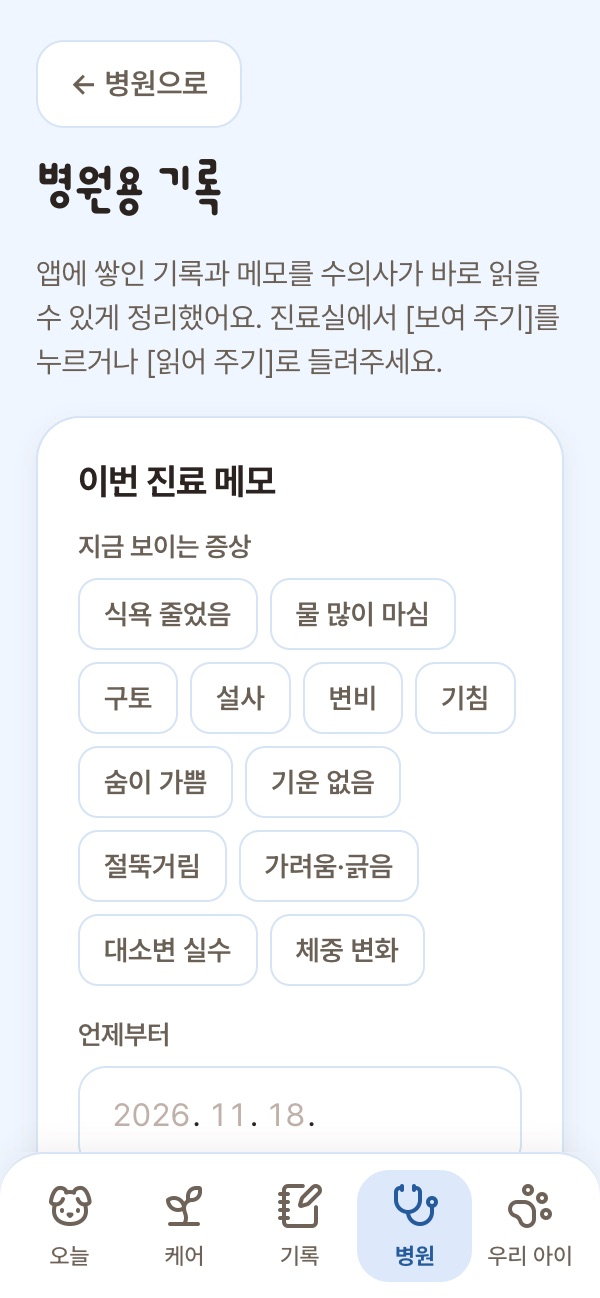
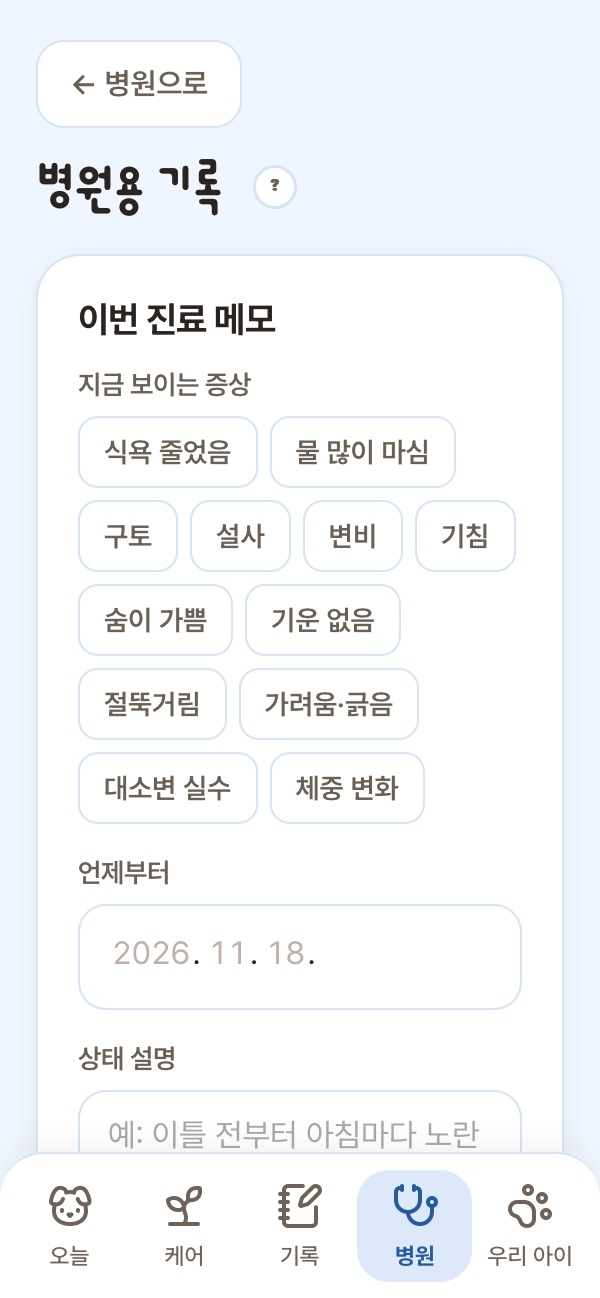
병원 탭 카드 납작하게(설명 제거, 보여 주기 오른쪽), 병원용 기록 화면 설명은 ? 버튼으로, 홈페이지 스크린샷 v11

diff --git a/public/intro/guide/index.html b/public/intro/guide/index.html
@@ -96,7 +96,7 @@
           </div>
           <figure class="g-sec-shot"><img src="/intro/img/profile.jpg?v=9" alt="우리 아이 화면 예시" width="300" height="649" loading="lazy" /><figcaption>예시 화면</figcaption></figure>
         </header>
-        <article class="g-q" id="pf-card"><h3>맨 위 카드에는 뭐가 있어요?</h3><p>나이·견종·몸무게·중성화와 <b>먹는 약·알레르기</b>가 보여요. '정보 전체 보기'로 생일·입양일·다니는 병원 같은 정보를 펼쳐요.</p><p>우리 아이 탭 맨 위 <b>대표 사진</b>의 📷를 눌러 바꿔요. 아래 <b>성장 추억</b>에 사진을 여러 장 모을 수 있고, 사진을 누르면 그날의 문구를 적고 스티커·글자로 꾸미거나 대표 사진으로 바꿀 수 있어요. 병원·증상 사진은 성장 추억 대신 그 기록에 남아요.</p><p><b>프로필 편집</b>에서 정보를 고치고, 사진을 지울 수 있어요. 사진은 위 사진을 눌러 바꿔요.</p></article><article class="g-q" id="pf-vitals"><h3>건강 수치 칸은 어떻게 읽어요?</h3><p>처음엔 몸무게만 보여요. 호흡수·체온·음수량처럼 따로 재는 수치는 [편집]에서 켜요. 밥 먹은 양은 기록 탭의 식사에서 건식·습식과 g으로 한 번에 적어요. 칸을 누르면 그래프와 재는 방법이 나와요.</p><dl class="g-table"><div><dt>큰 숫자 + '오늘'</dt><dd>오늘 적은 값</dd></div><div><dt>'—' + '마지막 어제'</dt><dd>오늘은 아직 안 적었어요</dd></div><div><dt>흐린 숫자</dt><dd>오래된 값이에요 (7일, 몸무게는 30일 지남)</dd></div><div><dt>'참고 범위 밖'</dt><dd>일반적인 범위와 달라요. 계속되면 병원에 물어보세요</dd></div></dl><p class="g-tip"><svg class="sk" aria-hidden="true"><use href="/sk/stickers.svg?v=3#sk-idea"/></svg><span><b>알아 두면 좋아요</b> '편집'을 누르면 늘 보일 칸을 고를 수 있어요.</span></p></article><article class="g-q" id="pf-records"><h3>건강 기록은 뭘 적어요?</h3><p><b>기록 탭 → [＋ 새 기록]</b>을 누르거나, 달력에서 날짜를 고른 뒤 <b>[＋ 이날 더 적기]</b>를 눌러요. 새 기록을 누르면 <b>체중 · 밥·물 · 배변·배뇨 · 증상 · 건강 수치 · 복약 · 병원 진료 · 성장 추억 · 일상·컨디션</b> 아홉 가지 중에 골라요. 사진과 메모는 어디에나 붙일 수 있어요.</p><dl class="g-table"><div><dt>체중</dt><dd>몸무게(kg)와 잰 방법</dd></div><div><dt>밥·물</dt><dd>건식·습식·물을 양(g·ml)으로, 식욕과 물 마신 정도</dd></div><div><dt>배변·배뇨</dt><dd>대변(모양·색·보이는 것)과 소변 상태</dd></div><div><dt>증상</dt><dd>구토·설사·기침·절뚝거림 같은 종류와 횟수, 본 모습</dd></div><div><dt>건강 수치</dt><dd>호흡수·체온·음수량처럼 따로 재는 값</dd></div><div><dt>복약</dt><dd>먹인 약과 시각</dd></div><div><dt>병원 진료</dt><dd>병원·이유·설명·검사·처방. 진료비를 적으면 가계부에, 다음 진료일을 적으면 일정표에도 들어가요</dd></div><div><dt>성장 추억</dt><dd>사진을 모아 두고 그날의 문구를 적어요</dd></div><div><dt>일상·컨디션</dt><dd>산책·간식·미용·양치·놀이 / 활동량·수면·피부·구강</dd></div></dl></article><article class="g-q" id="pf-vet"><h3>병원용 기록은 뭐예요?</h3><figure class="g-shot"><img src="/intro/img/vet.jpg?v=10" alt="병원용 기록 화면 예시" width="300" height="649" loading="lazy" /><figcaption>병원용 기록 화면 예시</figcaption></figure><p>병원에서 <b>“언제부터 그랬어요?”</b>에 바로 답할 수 있게 기록을 한 장으로 정리해 줘요.</p><ol class="g-steps"><li>'이번 진료 메모'에 지금 보이는 증상, 언제부터, 여쭤볼 것을 적어요.</li><li>넣을 기록과 기간(7·30·90일)을 골라요.</li><li>진료실에서 <b>보여 주기</b>(크게), <b>읽어 주기</b>, <b>공유</b>, <b>PDF로 저장</b> 중에 써요.</li></ol></article><article class="g-q" id="pf-meds"><h3>약은 어떻게 챙겨요?</h3><ol class="g-steps"><li>'투약' 칸이나 '투약 기록'을 눌러 <b>약 관리</b>로 가요.</li><li>약 이름·1회 양·먹일 시간·요일·기간을 처방대로 넣어요.</li><li>시간이 되면 알림이 오고, <b>먹였어요</b>나 <b>건너뜀</b>을 눌러요.</li></ol><p>기록을 안 누른 약은 '확인 필요'로 보여요. 남은 양도 알려 줘요.</p></article><article class="g-q" id="pf-report"><h3>주간 리포트는 뭐예요?</h3><p>지난 7일 동안 적은 기록을 <b>숫자로 모아</b> 보여 줘요. 건강 기록 카드 아래 <b>'이번 주 리포트'</b>를 누르거나, <b>일요일 저녁 8시</b> 알림을 누르면 열려요.</p><dl class="g-table"><div><dt>산책</dt><dd>며칠, 모두 몇 분</dd></div><div><dt>밥</dt><dd>평소만큼 / 적게 먹은 횟수</dd></div><div><dt>무른 변·설사</dt><dd>있었던 날짜</dd></div><div><dt>증상 기록</dt><dd>날짜별 목록</dd></div><div><dt>체중</dt><dd>지난 기록과의 차이</dd></div><div><dt>혼자 있던 시간</dt><dd>[다녀올게]를 누른 날의 하루 평균</dd></div><div><dt>다음 7일</dt><dd>일정과 사료 남은 날</dd></div></dl><p class="g-note"><svg class="sk" aria-hidden="true"><use href="/sk/stickers.svg?v=3#sk-alert"/></svg><span>적어 둔 기록을 그대로 센 숫자예요. 몸 상태를 판단하거나 점수를 매기지 않아요.</span></p><p>리포트 아래 <b>[이번 주 카드로 자랑하기]</b>를 누르면 함께 본 날·산책·몸무게·기록 수를 예쁜 그림 한 장으로 만들어 인스타·카톡에 올릴 수 있어요. 건강 기록은 그림에 넣지 않아요.</p></article><article class="g-q" id="pf-settings"><h3>설정에는 뭐가 있어요?</h3><p>우리 아이 탭 오른쪽 위 <b>메뉴(☰)</b>를 누르세요. 묶음별로 정리돼 있어요.</p><dl class="g-table"><div><dt>계정</dt><dd><b>백업·로그인</b>(카카오·이메일, 계정 삭제) · <b>가족 공유</b>(초대 코드를 보내면 가족이 같은 기록을 봐요)</dd></div><div><dt>우리 강아지</dt><dd>강아지 목록(누르면 바뀌어요) · <b>가족(본가) 집에 있어요</b> 스위치 · 새 강아지 등록하기</dd></div><div><dt>화면</dt><dd>다크 모드 · 배경 테마(색 조합과 발바닥 무늬) · 퍼피 100일 카드 켜고 끄기</dd></div><div><dt>기록</dt><dd><b>기록 내보내기</b>(병원용 기록 PDF, 엑셀용 CSV, 전체 백업 JSON — 무료) · AI 정보 전송 동의 확인·철회</dd></div><div><dt>멍케어</dt><dd><b>의견 보내기</b>(베타 기간엔 여기로 불편한 점을 알려 주세요) · 도움말 · 문의하기 · 가이드북·홈페이지·블로그·인스타·스레드 링크</dd></div><div><dt>삭제</dt><dd>이 강아지 삭제 · 전체 삭제</dd></div></dl></article>
+        <article class="g-q" id="pf-card"><h3>맨 위 카드에는 뭐가 있어요?</h3><p>나이·견종·몸무게·중성화와 <b>먹는 약·알레르기</b>가 보여요. '정보 전체 보기'로 생일·입양일·다니는 병원 같은 정보를 펼쳐요.</p><p>우리 아이 탭 맨 위 <b>대표 사진</b>의 📷를 눌러 바꿔요. 아래 <b>성장 추억</b>에 사진을 여러 장 모을 수 있고, 사진을 누르면 그날의 문구를 적고 스티커·글자로 꾸미거나 대표 사진으로 바꿀 수 있어요. 병원·증상 사진은 성장 추억 대신 그 기록에 남아요.</p><p><b>프로필 편집</b>에서 정보를 고치고, 사진을 지울 수 있어요. 사진은 위 사진을 눌러 바꿔요.</p></article><article class="g-q" id="pf-vitals"><h3>건강 수치 칸은 어떻게 읽어요?</h3><p>처음엔 몸무게만 보여요. 호흡수·체온·음수량처럼 따로 재는 수치는 [편집]에서 켜요. 밥 먹은 양은 기록 탭의 식사에서 건식·습식과 g으로 한 번에 적어요. 칸을 누르면 그래프와 재는 방법이 나와요.</p><dl class="g-table"><div><dt>큰 숫자 + '오늘'</dt><dd>오늘 적은 값</dd></div><div><dt>'—' + '마지막 어제'</dt><dd>오늘은 아직 안 적었어요</dd></div><div><dt>흐린 숫자</dt><dd>오래된 값이에요 (7일, 몸무게는 30일 지남)</dd></div><div><dt>'참고 범위 밖'</dt><dd>일반적인 범위와 달라요. 계속되면 병원에 물어보세요</dd></div></dl><p class="g-tip"><svg class="sk" aria-hidden="true"><use href="/sk/stickers.svg?v=3#sk-idea"/></svg><span><b>알아 두면 좋아요</b> '편집'을 누르면 늘 보일 칸을 고를 수 있어요.</span></p></article><article class="g-q" id="pf-records"><h3>건강 기록은 뭘 적어요?</h3><p><b>기록 탭 → [＋ 새 기록]</b>을 누르거나, 달력에서 날짜를 고른 뒤 <b>[＋ 이날 더 적기]</b>를 눌러요. 새 기록을 누르면 <b>체중 · 밥·물 · 배변·배뇨 · 증상 · 건강 수치 · 복약 · 병원 진료 · 성장 추억 · 일상·컨디션</b> 아홉 가지 중에 골라요. 사진과 메모는 어디에나 붙일 수 있어요.</p><dl class="g-table"><div><dt>체중</dt><dd>몸무게(kg)와 잰 방법</dd></div><div><dt>밥·물</dt><dd>건식·습식·물을 양(g·ml)으로, 식욕과 물 마신 정도</dd></div><div><dt>배변·배뇨</dt><dd>대변(모양·색·보이는 것)과 소변 상태</dd></div><div><dt>증상</dt><dd>구토·설사·기침·절뚝거림 같은 종류와 횟수, 본 모습</dd></div><div><dt>건강 수치</dt><dd>호흡수·체온·음수량처럼 따로 재는 값</dd></div><div><dt>복약</dt><dd>먹인 약과 시각</dd></div><div><dt>병원 진료</dt><dd>병원·이유·설명·검사·처방. 진료비를 적으면 가계부에, 다음 진료일을 적으면 일정표에도 들어가요</dd></div><div><dt>성장 추억</dt><dd>사진을 모아 두고 그날의 문구를 적어요</dd></div><div><dt>일상·컨디션</dt><dd>산책·간식·미용·양치·놀이 / 활동량·수면·피부·구강</dd></div></dl></article><article class="g-q" id="pf-vet"><h3>병원용 기록은 뭐예요?</h3><figure class="g-shot"><img src="/intro/img/vet.jpg?v=11" alt="병원용 기록 화면 예시" width="300" height="649" loading="lazy" /><figcaption>병원용 기록 화면 예시</figcaption></figure><p>병원에서 <b>“언제부터 그랬어요?”</b>에 바로 답할 수 있게 기록을 한 장으로 정리해 줘요.</p><ol class="g-steps"><li>'이번 진료 메모'에 지금 보이는 증상, 언제부터, 여쭤볼 것을 적어요.</li><li>넣을 기록과 기간(7·30·90일)을 골라요.</li><li>진료실에서 <b>보여 주기</b>(크게), <b>읽어 주기</b>, <b>공유</b>, <b>PDF로 저장</b> 중에 써요.</li></ol></article><article class="g-q" id="pf-meds"><h3>약은 어떻게 챙겨요?</h3><ol class="g-steps"><li>'투약' 칸이나 '투약 기록'을 눌러 <b>약 관리</b>로 가요.</li><li>약 이름·1회 양·먹일 시간·요일·기간을 처방대로 넣어요.</li><li>시간이 되면 알림이 오고, <b>먹였어요</b>나 <b>건너뜀</b>을 눌러요.</li></ol><p>기록을 안 누른 약은 '확인 필요'로 보여요. 남은 양도 알려 줘요.</p></article><article class="g-q" id="pf-report"><h3>주간 리포트는 뭐예요?</h3><p>지난 7일 동안 적은 기록을 <b>숫자로 모아</b> 보여 줘요. 건강 기록 카드 아래 <b>'이번 주 리포트'</b>를 누르거나, <b>일요일 저녁 8시</b> 알림을 누르면 열려요.</p><dl class="g-table"><div><dt>산책</dt><dd>며칠, 모두 몇 분</dd></div><div><dt>밥</dt><dd>평소만큼 / 적게 먹은 횟수</dd></div><div><dt>무른 변·설사</dt><dd>있었던 날짜</dd></div><div><dt>증상 기록</dt><dd>날짜별 목록</dd></div><div><dt>체중</dt><dd>지난 기록과의 차이</dd></div><div><dt>혼자 있던 시간</dt><dd>[다녀올게]를 누른 날의 하루 평균</dd></div><div><dt>다음 7일</dt><dd>일정과 사료 남은 날</dd></div></dl><p class="g-note"><svg class="sk" aria-hidden="true"><use href="/sk/stickers.svg?v=3#sk-alert"/></svg><span>적어 둔 기록을 그대로 센 숫자예요. 몸 상태를 판단하거나 점수를 매기지 않아요.</span></p><p>리포트 아래 <b>[이번 주 카드로 자랑하기]</b>를 누르면 함께 본 날·산책·몸무게·기록 수를 예쁜 그림 한 장으로 만들어 인스타·카톡에 올릴 수 있어요. 건강 기록은 그림에 넣지 않아요.</p></article><article class="g-q" id="pf-settings"><h3>설정에는 뭐가 있어요?</h3><p>우리 아이 탭 오른쪽 위 <b>메뉴(☰)</b>를 누르세요. 묶음별로 정리돼 있어요.</p><dl class="g-table"><div><dt>계정</dt><dd><b>백업·로그인</b>(카카오·이메일, 계정 삭제) · <b>가족 공유</b>(초대 코드를 보내면 가족이 같은 기록을 봐요)</dd></div><div><dt>우리 강아지</dt><dd>강아지 목록(누르면 바뀌어요) · <b>가족(본가) 집에 있어요</b> 스위치 · 새 강아지 등록하기</dd></div><div><dt>화면</dt><dd>다크 모드 · 배경 테마(색 조합과 발바닥 무늬) · 퍼피 100일 카드 켜고 끄기</dd></div><div><dt>기록</dt><dd><b>기록 내보내기</b>(병원용 기록 PDF, 엑셀용 CSV, 전체 백업 JSON — 무료) · AI 정보 전송 동의 확인·철회</dd></div><div><dt>멍케어</dt><dd><b>의견 보내기</b>(베타 기간엔 여기로 불편한 점을 알려 주세요) · 도움말 · 문의하기 · 가이드북·홈페이지·블로그·인스타·스레드 링크</dd></div><div><dt>삭제</dt><dd>이 강아지 삭제 · 전체 삭제</dd></div></dl></article>
         <a class="g-next" href="#calendar"><span>다음</span><b>병원 · 일정표</b><svg class="ic" aria-hidden="true"><use href="/intro/sprite.svg#i-chev"/></svg></a>
       </section>
       <section class="g-sec" id="calendar" aria-labelledby="calendar-t">
@@ -107,7 +107,7 @@
             <p class="g-sum">챙겨야 할 날을 넣어 두면 대신 기억하고 미리 알려 주는 달력이에요.</p>
             <nav class="g-qlist" aria-label="병원 · 일정표에서 궁금한 것"><a href="#cl-doc">진료 정리는 뭐예요?<svg class="ic" aria-hidden="true"><use href="/intro/sprite.svg#i-chev"/></svg></a><a href="#cl-add">일정은 어떻게 넣어요?<svg class="ic" aria-hidden="true"><use href="/intro/sprite.svg#i-chev"/></svg></a><a href="#cl-repeat">매달 하는 일은요?<svg class="ic" aria-hidden="true"><use href="/intro/sprite.svg#i-chev"/></svg></a><a href="#cl-alarm">알림은 언제 와요?<svg class="ic" aria-hidden="true"><use href="/intro/sprite.svg#i-chev"/></svg></a><a href="#cl-holiday">빨간 날짜는 뭐예요?<svg class="ic" aria-hidden="true"><use href="/intro/sprite.svg#i-chev"/></svg></a><a href="#cl-vet">다녀온 병원도 보여요?<svg class="ic" aria-hidden="true"><use href="/intro/sprite.svg#i-chev"/></svg></a><a href="#cl-today">다른 달을 보다가 오늘로 오려면요?<svg class="ic" aria-hidden="true"><use href="/intro/sprite.svg#i-chev"/></svg></a></nav>
           </div>
-          <figure class="g-sec-shot"><img src="/intro/img/hospital.jpg?v=10" alt="병원 화면 예시" width="300" height="649" loading="lazy" /><figcaption>예시 화면</figcaption></figure>
+          <figure class="g-sec-shot"><img src="/intro/img/hospital.jpg?v=11" alt="병원 화면 예시" width="300" height="649" loading="lazy" /><figcaption>예시 화면</figcaption></figure>
         </header>
         <article class="g-q" id="cl-doc"><h3>진료 정리는 뭐예요?</h3><p>병원 탭 <b>[진료 정리]</b>에 영수증·진료비 세부내역서·처방전·약봉투 사진(3장까지)을 넣고, 들은 설명을 적으면 진료 기록 칸을 채워 드려요. <b>맞는지 확인</b>한 뒤 저장해요.</p><ol class="g-steps"><li>사진의 <b>[가리기]</b>로 보호자 이름·전화번호·카드번호를 칠해요(가린 사진만 보내요).</li><li>[정리하기] → 날짜·병원·이유·소견·검사·처방·주의사항·다음 진료일·항목별 금액을 확인해요.</li><li>약이 읽히면 <b>약 일정 초안</b>이 나와요. 1회 양·하루 횟수·며칠분을 처방전과 맞춰 보고 체크하면 약 관리에 들어가요(용량은 바꾸지 않아요).</li><li>진료 전에 적어 둔 <b>물어볼 것</b>이 보이면 들은 답을 적어 두세요.</li></ol><p>AI를 쓰고 싶지 않으면 <b>[AI 없이 직접 적기]</b>로 같은 칸을 직접 채워요. 진료비는 가계부(병원비)에, 다음 진료일은 일정과 알림에 같이 들어가요.</p></article><article class="g-q" id="cl-add"><h3>일정은 어떻게 넣어요?</h3><ol class="g-steps"><li>오른쪽 위 <b>＋ 일정</b>을 누르거나, 날짜를 누르고 '이 날 일정 추가'를 눌러요.</li><li><b>무엇을</b>: 병원·재검·접종·정기검진·스케일링·구충·심장사상충·미용·약·호텔·돌봄·기념일·기타 중에 고르고 제목을 써요.</li><li><b>언제</b>: 날짜와 시간(또는 종일)을 골라요.</li><li><b>알림</b>: 받을지 골라요. 그리고 저장!</li></ol></article><article class="g-q" id="cl-repeat"><h3>매달 하는 일은요?</h3><p>'언제'에서 <b>반복</b>을 고르세요. 매주·매달·매년이 있어요. 심장사상충 약처럼 매달 하는 일에 좋아요.</p><p>호텔링·입원처럼 며칠 이어지는 일은 <b>'며칠'</b>을 고르고 시작일과 끝나는 날을 누르세요.</p><p class="g-tip"><svg class="sk" aria-hidden="true"><use href="/sk/stickers.svg?v=3#sk-idea"/></svg><span><b>알아 두면 좋아요</b> 반복 일정을 고치거나 지울 때 <b>'이번 일정만'</b>인지 <b>'이후 모두'</b>인지 물어봐요.</span></p></article><article class="g-q" id="cl-alarm"><h3>알림은 언제 와요?</h3><dl class="g-table"><div><dt>전날 저녁 8시</dt><dd>하루 전에 미리</dd></div><div><dt>당일 아침 9시</dt><dd>그날 아침에</dd></div><div><dt>1시간 전</dt><dd>시간을 정한 일정만</dd></div></dl></article><article class="g-q" id="cl-holiday"><h3>빨간 날짜는 뭐예요?</h3><p><b>일요일과 공휴일</b>이에요. 공휴일은 이름도 작게 보여서 병원 예약 잡기 편해요.</p></article><article class="g-q" id="cl-vet"><h3>다녀온 병원도 보여요?</h3><p>병원 진료 기록이 있는 날엔 달력에 <b>빈 동그라미</b>가 보이고, 날짜를 누르면 내용이 나와요.</p><p>지난 병원 일정을 누르면 <b>'다녀왔나요? 진료 내용 기록하기'</b> 버튼이 나와요. 누르면 진료 기록이 채워져서 열려요.</p></article><article class="g-q" id="cl-today"><h3>다른 달을 보다가 오늘로 오려면요?</h3><p>달 이름 옆 <b>'오늘'</b> 버튼을 누르세요. 화면 아래 '다가오는 일정'에는 90일 안의 일정이 가까운 순서로 나와요.</p></article>
         <a class="g-next" href="#budget"><span>다음</span><b>가계부</b><svg class="ic" aria-hidden="true"><use href="/intro/sprite.svg#i-chev"/></svg></a>

diff --git a/public/intro/index.html b/public/intro/index.html
@@ -105,7 +105,7 @@
         <div class="demo" id="demo">
           <p class="demo-hint" aria-hidden="true"><span class="hand">👆</span> 아래 탭을 눌러 보세요</p>
           <div class="phone demo-phone">
-            <div class="screens"><img class="scr" src="/intro/img/today.jpg?v=9" alt="" width="300" height="649" loading="lazy" /><img class="scr" src="/intro/img/care.jpg?v=9" alt="" width="300" height="649" loading="lazy" /><img class="scr" src="/intro/img/records.jpg?v=9" alt="" width="300" height="649" loading="lazy" /><img class="scr on" src="/intro/img/hospital.jpg?v=10" alt="" width="300" height="649" fetchpriority="high" /><img class="scr" src="/intro/img/profile.jpg?v=9" alt="" width="300" height="649" loading="lazy" /></div>
+            <div class="screens"><img class="scr" src="/intro/img/today.jpg?v=9" alt="" width="300" height="649" loading="lazy" /><img class="scr" src="/intro/img/care.jpg?v=9" alt="" width="300" height="649" loading="lazy" /><img class="scr" src="/intro/img/records.jpg?v=9" alt="" width="300" height="649" loading="lazy" /><img class="scr on" src="/intro/img/hospital.jpg?v=11" alt="" width="300" height="649" fetchpriority="high" /><img class="scr" src="/intro/img/profile.jpg?v=9" alt="" width="300" height="649" loading="lazy" /></div>
             <span class="tag">간략 미리보기</span>
             <div class="nav-glow" aria-hidden="true"><span>여기를 눌러 보세요</span></div>
             <div class="hots" role="tablist" aria-label="멍케어 다섯 탭 둘러보기"><button type="button" role="tab" id="tab-assistant" class="hot" aria-selected="false" aria-controls="panel-assistant" tabindex="-1"><span class="sr">오늘 탭 설명 보기</span><i class="ping" aria-hidden="true"></i></button><button type="button" role="tab" id="tab-care" class="hot" aria-selected="false" aria-controls="panel-care" tabindex="-1"><span class="sr">케어 탭 설명 보기</span><i class="ping" aria-hidden="true"></i></button><button type="button" role="tab" id="tab-records" class="hot" aria-selected="false" aria-controls="panel-records" tabindex="-1"><span class="sr">기록 탭 설명 보기</span><i class="ping" aria-hidden="true"></i></button><button type="button" role="tab" id="tab-hospital" class="hot" aria-selected="true" aria-controls="panel-hospital" tabindex="0"><span class="sr">병원 탭 설명 보기</span><i class="ping" aria-hidden="true"></i></button><button type="button" role="tab" id="tab-profile" class="hot" aria-selected="false" aria-controls="panel-profile" tabindex="-1"><span class="sr">우리 아이 탭 설명 보기</span><i class="ping" aria-hidden="true"></i></button></div>
@@ -227,7 +227,7 @@
               </ul>
               <p class="svc-note">멍케어는 진료를 하지 않아요. 기록을 정리해 보호자와 수의사의 대화를 돕습니다.</p>
             </div>
-            <div class="svc-shots"><figure class="phone mini"><img src="/intro/img/hospital.jpg?v=10" alt="병원 화면 예시" width="300" height="649" loading="lazy" /></figure><figure class="phone mini"><img src="/intro/img/vet.jpg?v=10" alt="병원용 기록 화면 예시" width="300" height="649" loading="lazy" /></figure><span class="tag">예시 화면</span></div>
+            <div class="svc-shots"><figure class="phone mini"><img src="/intro/img/hospital.jpg?v=11" alt="병원 화면 예시" width="300" height="649" loading="lazy" /></figure><figure class="phone mini"><img src="/intro/img/vet.jpg?v=11" alt="병원용 기록 화면 예시" width="300" height="649" loading="lazy" /></figure><span class="tag">예시 화면</span></div>
             <div class="svc-foot">
               <a class="btn btn-lg btn-ghost" href="/intro/guide/#calendar">자세한 설명서 보기</a>
               <button type="button" class="btn btn-lg svc-back">휴대폰으로 돌아가기</button>

diff --git a/src/screens/VetSummary.jsx b/src/screens/VetSummary.jsx
@@ -3,11 +3,13 @@ import { createPortal } from "react-dom";
 import { useSwipeClose } from "../components/SwipeBack";
 import { todayKey } from "../utils/date";
 import Ico from "../components/Ico";
+import { useHelpTip } from "../components/HelpTip";
 import { markFirstSteps } from "../services/firstSteps";
 import { getVetNote, saveVetNote, buildVetSummary, summaryToText, SYMPTOMS, SECTIONS, PERIODS } from "../services/vetSummary";
 
 // 병원용 기록 — 위에서 이번 진료 메모와 넣을 항목을 고르고, 아래 정리본을 진료실에서 보여 주거나 읽어 준다.
 export default function VetSummary({ dog, onBack, backLabel = "← 병원으로" }) {
+  const [tip, panel] = useHelpTip("병원용 기록", "앱에 쌓인 기록과 메모를 수의사가 바로 읽을 수 있게 한 장으로 정리해요. 진료실에서 [보여 주기]를 누르거나 [읽어 주기]로 들려주세요."); // 11/18: 설명 문단 대신 ? 버튼(사용자)
   useEffect(() => markFirstSteps(dog.id, { vet: true }), [dog.id]); // 첫 걸음 ③ 병원용 기록 미리 보기
   const [note, setNote] = useState(() => getVetNote(dog.id));
   const [showing, setShowing] = useState(false);
@@ -72,10 +74,9 @@ export default function VetSummary({ dog, onBack, backLabel = "← 병원으로"
       <button className="btn-ghost" style={{ marginBottom: 12 }} onClick={onBack}>
         {backLabel}
       </button>
-      <div className="h1">병원용 기록</div>
-      <p className="subtle" style={{ marginBottom: 16 }}>
-        앱에 쌓인 기록과 메모를 수의사가 바로 읽을 수 있게 정리했어요. 진료실에서 [보여 주기]를 누르거나 [읽어 주기]로 들려주세요.
-      </p>
+      <div className="h1" style={{ display: "flex", alignItems: "center", gap: 8 }}>병원용 기록{tip}</div>
+      {panel}
+      <div style={{ height: 12 }} />
 
       <div className="card" style={{ marginBottom: 14 }}>
         <div className="h2">이번 진료 메모</div>

diff --git a/src/screens/Calendar.jsx b/src/screens/Calendar.jsx
@@ -109,10 +109,9 @@ export default function Calendar({ dog, onRecordVisit, onOpenVet, onOpenBudget, 
             <span className="care-guide-text">
               <span className="care-guide-sub">{nv ? `${nv.event.title} ${dDay(today, nv.date)} · 가기 전에` : "병원 가기 전에"}</span>
               <span className="care-guide-title">병원용 기록 한 장</span>
-              <span className="care-guide-desc">밥·변·컨디션·먹는 약·체중을 수의사가 바로 읽게 정리해요. 진료실에서 보여 주거나 읽어 주면 돼요.</span>
             </span>
+            <span className="care-guide-go vf-go">보여 주기 ›</span>
           </span>
-          <span className="care-guide-foot"><span className="faint">지금 증상·언제부터도 적을 수 있어요</span><span className="care-guide-go">보여 주기 ›</span></span>
         </button>
       ); })()}
       <div className="quick-actions" style={{ marginBottom: 14 }}>{/* 11/14: 색 상자 제거(사용자), 기록 타일과 같은 흰 타일 + 스티커 */}

diff --git a/src/index.css b/src/index.css
@@ -1957,3 +1957,10 @@ body.tap-shield .pager-page, body.tap-shield .es-backdrop, body.tap-shield .all-
 .mr-note { margin-top: 10px; display: grid; gap: 8px; }
 .mr-note-text { margin: 0; font-size: 14.5px; line-height: 1.6; white-space: pre-line; }
 .mr-lock { display: grid; gap: 10px; justify-items: center; text-align: center; padding: 22px 16px; }
+
+/* 병원 탭 맨 위 "병원용 기록 한 장" 카드(11/18): 설명 없이 한 줄 — 머리(D-day)·제목·[보여 주기]만 */
+.vet-front { padding: 12px 14px; gap: 0; }
+.vet-front .care-guide-top { align-items: center; }
+.vet-front .care-guide-title { font-size: 24px; }
+.vet-front .vf-go { align-self: center; white-space: nowrap; margin-left: auto; padding-left: 8px; }
+.vet-front .care-guide-text { flex: 1; min-width: 0; }
